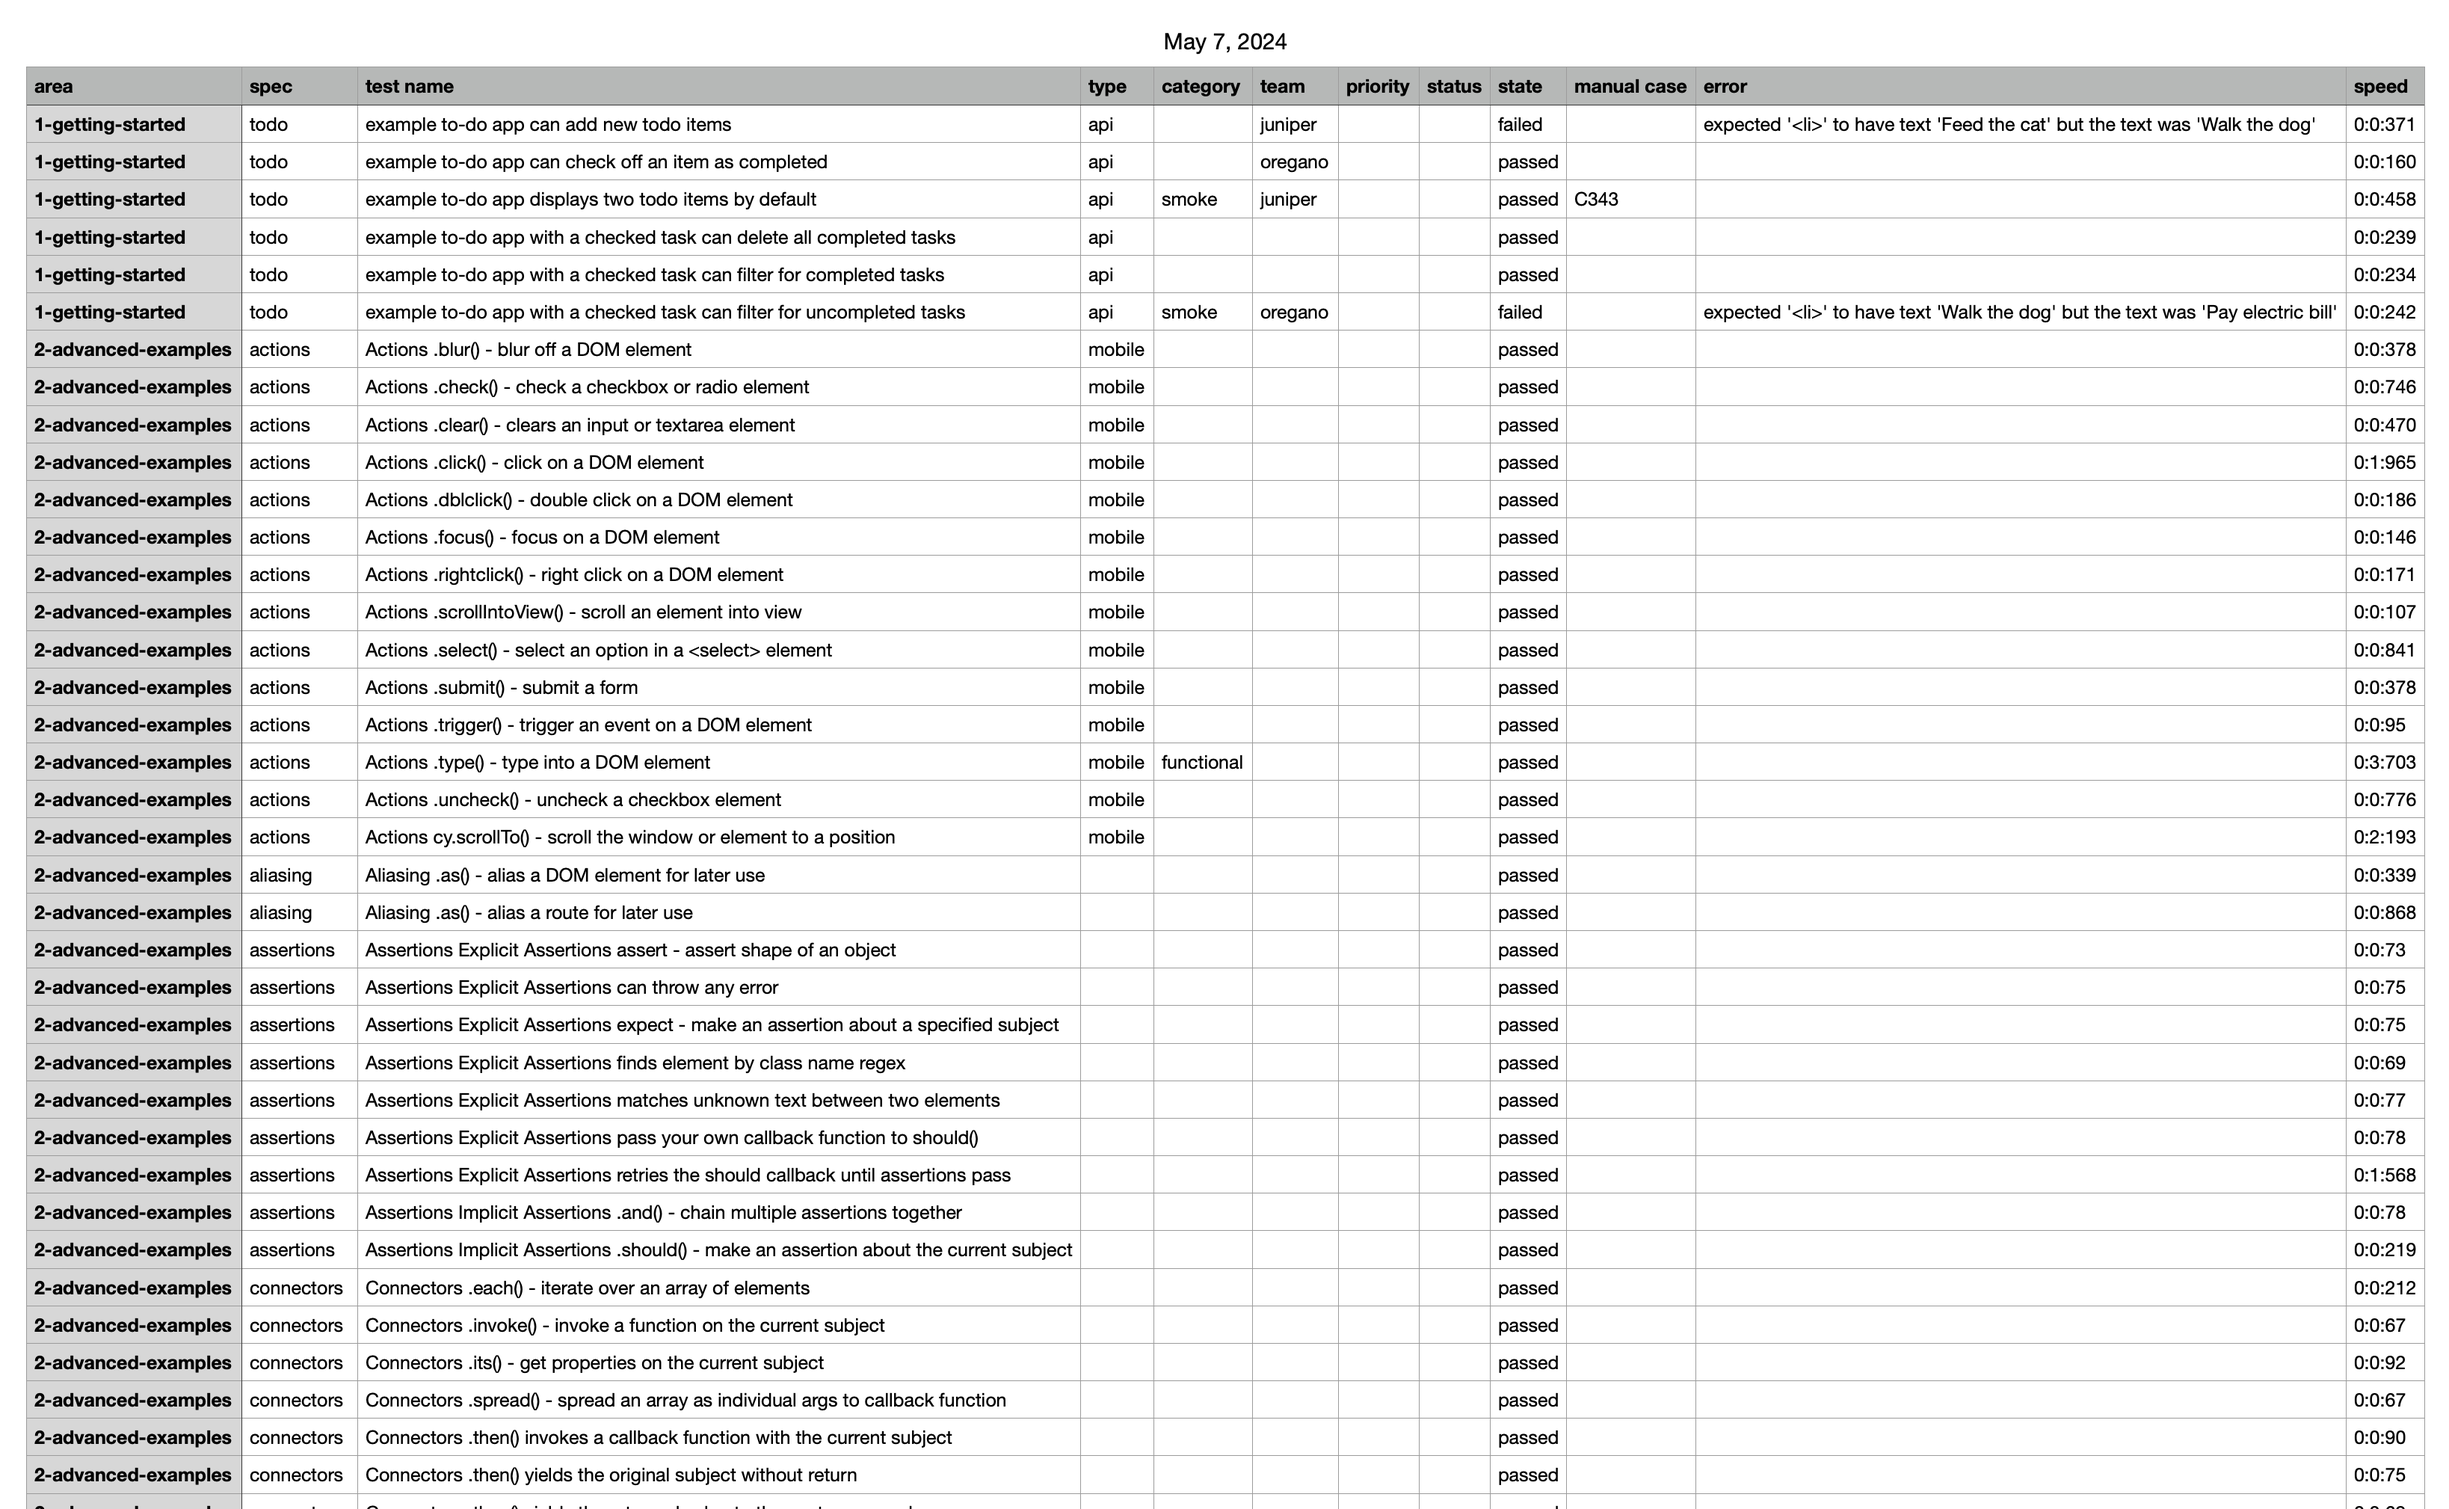
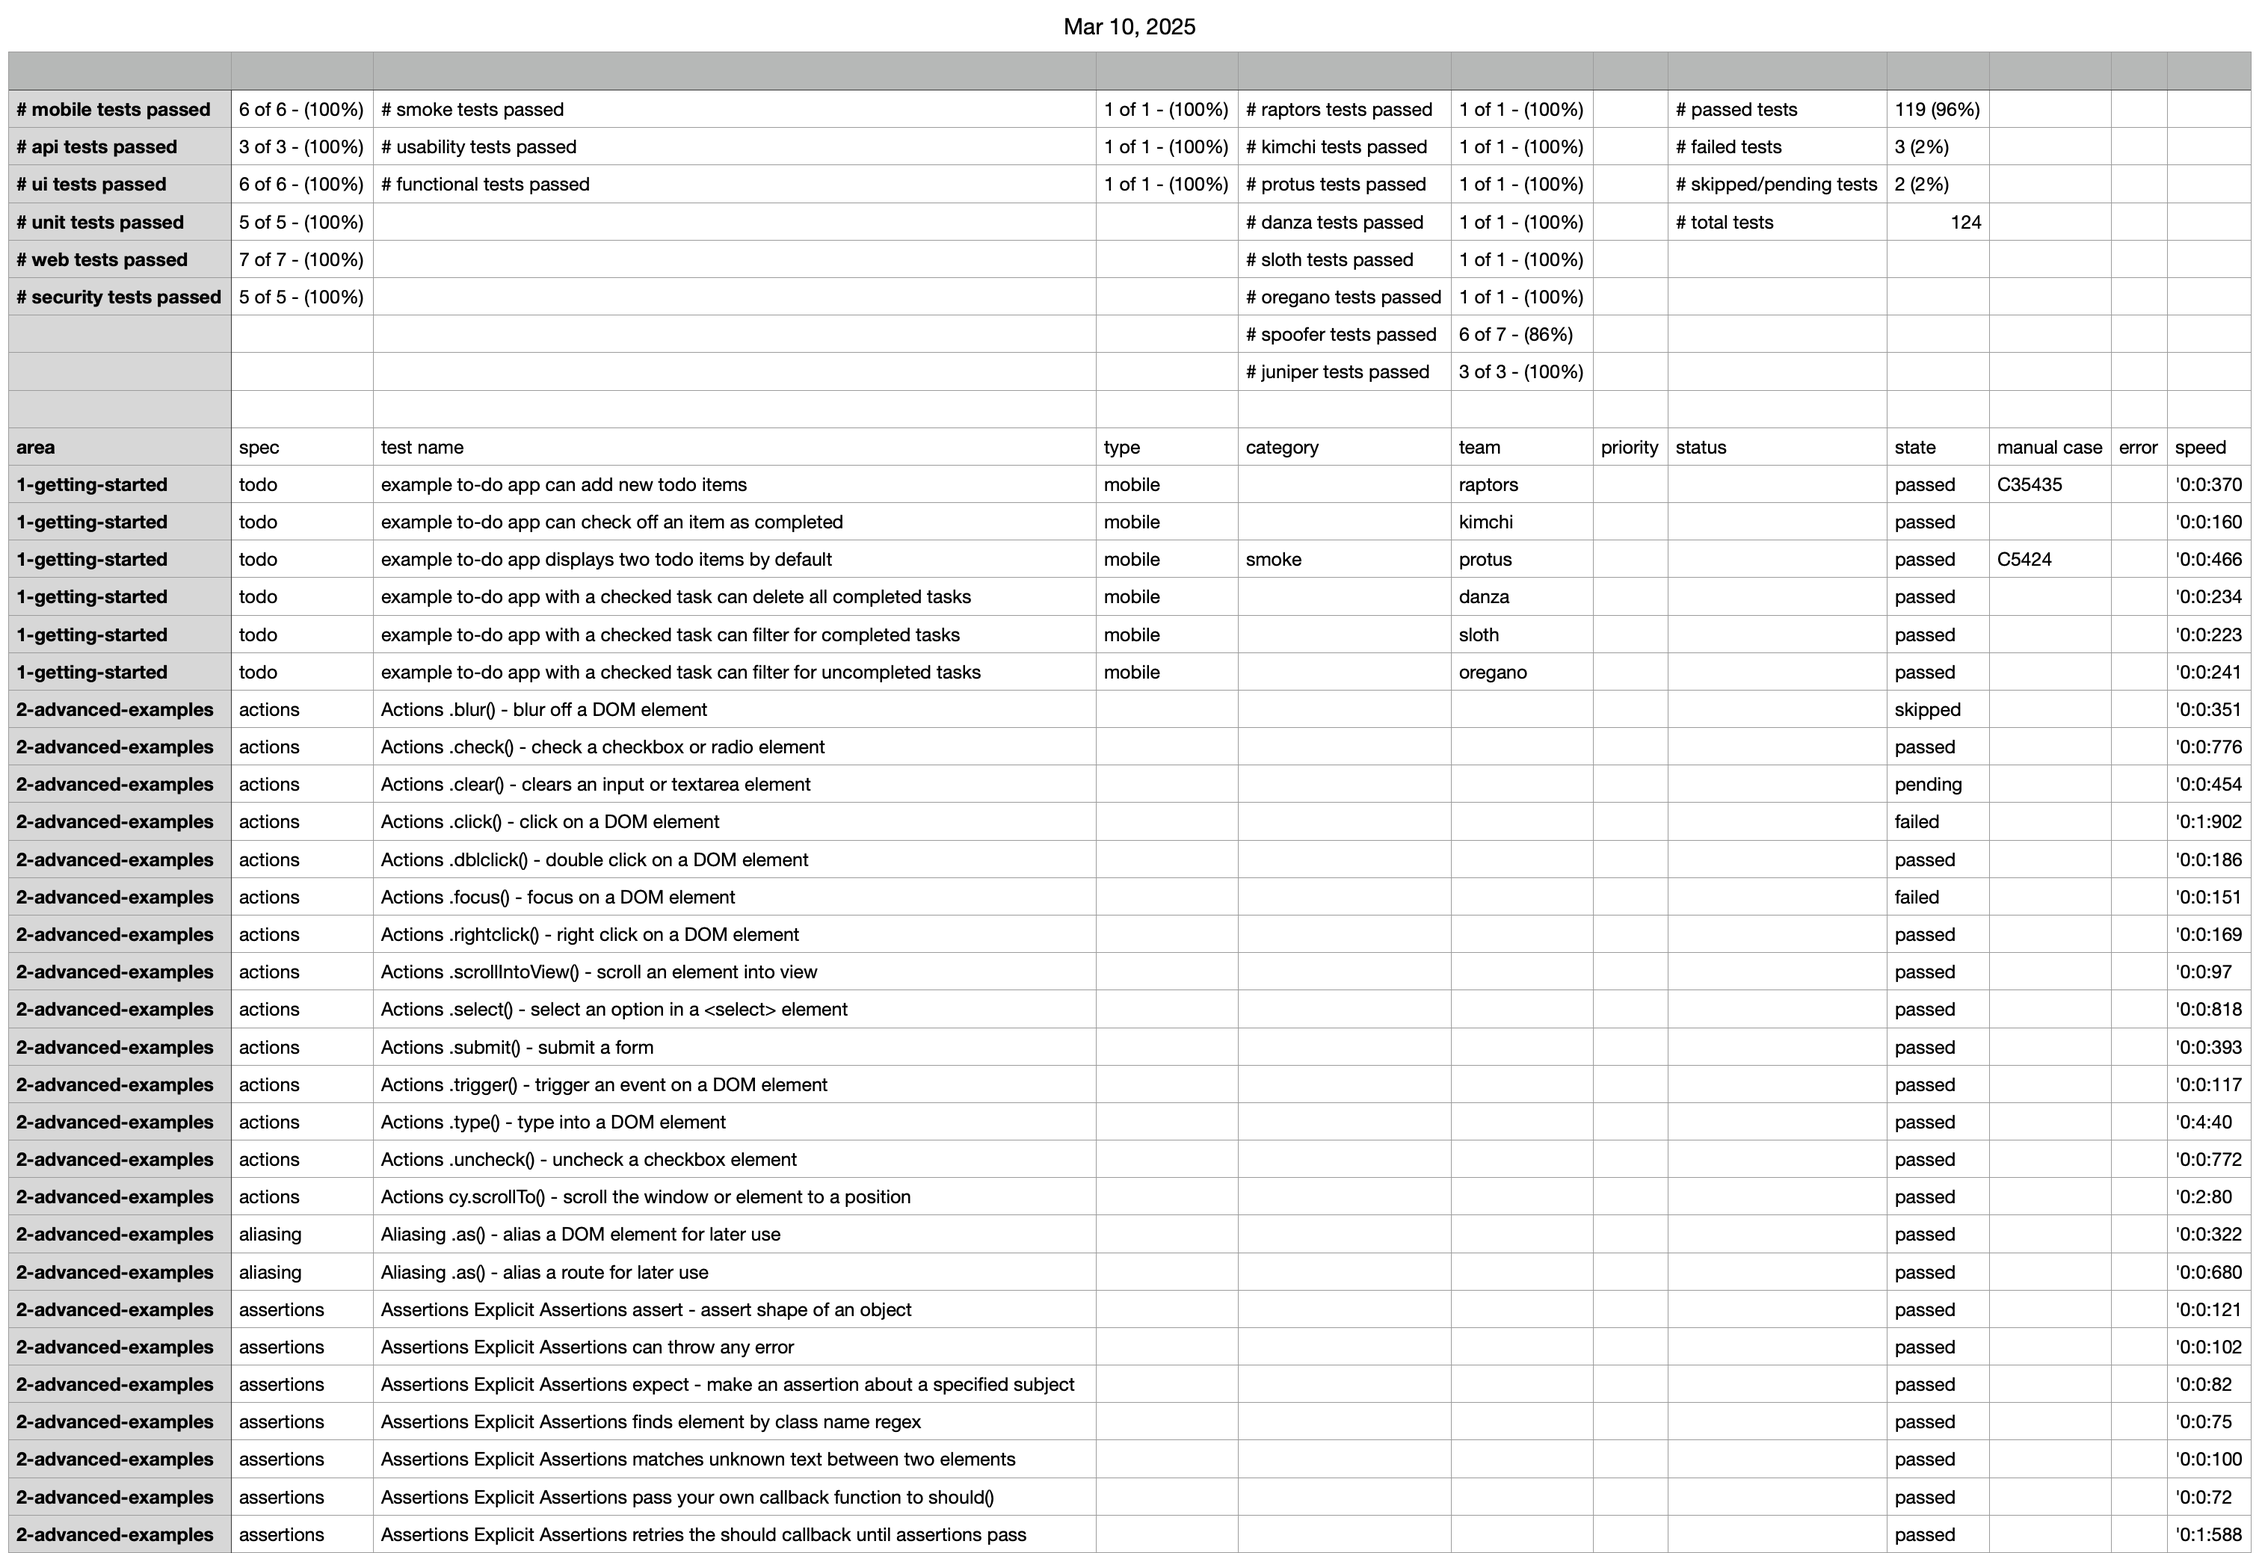
added csv formulas (#108)

diff --git a/src/sharedMethods/csvHandler.js b/src/sharedMethods/csvHandler.js
@@ -10,6 +10,9 @@ import chalk from 'chalk';
  * @returns {string} The CSV string.
  */
 const arrayToCSV = (data) => {
+  if (!Array.isArray(data) || !data.every((row) => Array.isArray(row))) {
+    throw new Error('arrayToCSV expects a 2D array');
+  }
   return data
     .map((row) =>
       row
@@ -50,5 +53,139 @@ export const saveCSV = (reportPayload, duplicate) => {
   }
 
   fs.writeFileSync(filePath, csvData, 'utf8');
-  console.log(`CSV file has been saved successfully to ${filePath}`);
+  console.info(
+    chalk.green(`CSV file has been saved successfully to ${filePath}`)
+  );
+};
+
+/**
+ * Calculates daily summary metrics from test data, dynamically aggregating by unique TYPE, CATEGORY, TEAM values,
+ * and aligns them in multiple rows. Ensures overall metrics are in columns 8-9. Handles empty/blank values efficiently.
+ * @param {Array<Array<string>>} testData - Array of test data arrays (each with 12 elements).
+ * @returns {string[][]} A 2D array representing the calculated header rows for CSV, aligned by columns.
+ */
+export const calculateDailySummaryMetrics = (testData) => {
+  // Initialize counters
+  const counters = {
+    total: testData.length,
+    passed: 0,
+    failed: 0,
+    skippedPending: 0,
+    byType: {},
+    byCategory: {},
+    byTeam: {},
+  };
+
+  // Helper to update counters for a given key and map
+  const updateCounter = (key, map, status) => {
+    if (!key) return; // Skip empty/blank keys
+    if (!map[key]) map[key] = { passed: 0, total: 0 };
+    map[key].total++;
+    if (status.toLowerCase() === 'passed') map[key].passed++;
+  };
+
+  // Process each test entry
+  testData.forEach((row, index) => {
+    const type = row[3] || '';
+    const category = row[4] || '';
+    const team = row[5] || '';
+    const status = row[8] || '';
+
+    // Update overall counters
+    if (status.toLowerCase() === 'passed') counters.passed++;
+    if (status.toLowerCase() === 'failed') counters.failed++;
+    if (status.toLowerCase() !== 'passed' && status.toLowerCase() !== 'failed')
+      counters.skippedPending++;
+
+    // Aggregate by TYPE, CATEGORY, TEAM
+    updateCounter(type, counters.byType, status);
+    updateCounter(category, counters.byCategory, status);
+    updateCounter(team, counters.byTeam, status);
+  });
+
+  // Calculate percentages
+  const calculatePercentage = (passed, total) =>
+    total > 0 ? Math.round((passed / total) * 100) : 0;
+
+  // Helper to generate metric value
+  const generateMetricValue = (passed, total) =>
+    `${passed} of ${total} - (${calculatePercentage(passed, total)}%)`;
+
+  // Get metrics for each category
+  const typeMetrics = Object.entries(counters.byType).map(
+    ([key, { passed, total }]) => [
+      `# ${key} tests passed`,
+      generateMetricValue(passed, total),
+    ]
+  );
+  const categoryMetrics = Object.entries(counters.byCategory).map(
+    ([key, { passed, total }]) => [
+      `# ${key} tests passed`,
+      generateMetricValue(passed, total),
+    ]
+  );
+  const teamMetrics = Object.entries(counters.byTeam).map(
+    ([key, { passed, total }]) => [
+      `# ${key} tests passed`,
+      generateMetricValue(passed, total),
+    ]
+  );
+  const overallMetrics = [
+    `# passed tests`,
+    `${counters.passed} (${calculatePercentage(counters.passed, counters.total)}%)`,
+    `# failed tests`,
+    `${counters.failed} (${calculatePercentage(counters.failed, counters.total)}%)`,
+    `# skipped/pending tests`,
+    `${counters.skippedPending} (${calculatePercentage(counters.skippedPending, counters.total)}%)`,
+    `# total tests`,
+    `${counters.total}`,
+  ];
+
+  // Determine the number of rows (at least 4 for overall metrics)
+  const maxUniqueMetrics = Math.max(
+    typeMetrics.length,
+    categoryMetrics.length,
+    teamMetrics.length
+  );
+  const minRows = 4; // Ensure at least 4 rows for overall metrics
+  const maxRows = Math.max(maxUniqueMetrics, minRows);
+
+  // Build the 2D header with dynamically determined rows
+  const headerRows = [
+    // Initial empty row
+    Array(12).fill(''),
+  ];
+
+  for (let i = 0; i < maxRows; i++) {
+    const row = [];
+    // Columns 1-2: TYPE metric (if available)
+    row.push(typeMetrics[i]?.[0] || '', typeMetrics[i]?.[1] || '');
+    // Columns 3-4: CATEGORY metric (if available)
+    row.push(categoryMetrics[i]?.[0] || '', categoryMetrics[i]?.[1] || '');
+    // Columns 5-6: TEAM metric (if available)
+    row.push(teamMetrics[i]?.[0] || '', teamMetrics[i]?.[1] || '');
+    // Column 7: Placeholder
+    row.push('');
+    // Columns 8-9: Overall metrics (fixed to first 4 rows)
+    if (i === 0) {
+      row.push(overallMetrics[0] || '', overallMetrics[1] || '');
+    } else if (i === 1) {
+      row.push(overallMetrics[2] || '', overallMetrics[3] || '');
+    } else if (i === 2) {
+      row.push(overallMetrics[4] || '', overallMetrics[5] || '');
+    } else if (i === 3) {
+      row.push(overallMetrics[6] || '', overallMetrics[7] || '');
+    } else {
+      row.push('', '');
+    }
+    // Columns 10-12: Placeholders
+    row.push('', '', '');
+
+    headerRows.push(row);
+  }
+
+  // Add final empty row
+  headerRows.push(Array(12).fill(''));
+
+  return headerRows;
 };

diff --git a/src/sharedMethods/dailyReportHandler.js b/src/sharedMethods/dailyReportHandler.js
@@ -19,7 +19,7 @@ import {
   setTextWrappingToClip,
 } from './styles.js';
 import { TEST_DATA } from '../../constants.js';
-import { saveCSV } from './csvHandler.js';
+import { calculateDailySummaryMetrics, saveCSV } from './csvHandler.js';
 import { doesTodaysReportExist } from './dailyReportRequired.js';
 import { transformPlaywrightToFriendlyFormat } from './convertPayloads.js';
 import chalk from 'chalk';
@@ -59,11 +59,35 @@ export const handleDailyReport = async ({
     }
     const fullDailyPayload = await buildDailyPayload(testPayload, playwright);
     if (csv) {
-      const reportPayload = [
+      const summaryHeader = calculateDailySummaryMetrics(
+        fullDailyPayload.bodyPayload
+      );
+      // Ensure the original header is a 1D array
+      const originalHeader = Array.isArray(
         fullDailyPayload.headerPayload[
           fullDailyPayload.headerPayload.length - 1
-        ],
-        ...fullDailyPayload.bodyPayload,
+        ]
+      )
+        ? fullDailyPayload.headerPayload[
+            fullDailyPayload.headerPayload.length - 1
+          ]
+        : [
+            fullDailyPayload.headerPayload[
+              fullDailyPayload.headerPayload.length - 1
+            ],
+          ];
+
+      // Pad the original header to match body row length (12 columns)
+      const bodyRowLength = fullDailyPayload.bodyPayload[0]?.length || 12;
+      const paddedOriginalHeader = [
+        ...originalHeader,
+        ...Array(Math.max(0, bodyRowLength - originalHeader.length)).fill(''),
+      ];
+
+      const reportPayload = [
+        ...summaryHeader, // Multi-row header, each row is 12 columns
+        paddedOriginalHeader, // Column names, padded to 12 columns
+        ...fullDailyPayload.bodyPayload, // Already 2D, each row is 12 columns
       ];
       saveCSV(reportPayload, duplicate);
     } else {

diff --git a/README.md b/README.md
@@ -10,10 +10,10 @@ Our package bridges Cypress and Playwright test runs with Google Sheets or CSV, 
 2. [Quick Start](#quick-start)
    - [Generate Reports in CSV Format](#generate-reports-in-csv-format)
 3. [Samples](#samples)
-   - [Sheets Daily Report](#sheets-daily-report)
-   - [Sheets Weekly Summary](#sheets-weekly-summary)
-   - [Sheets Monthly Summary](#sheets-monthly-summary)
-   - [CSV Daily Report](#csv-daily-report)
+   - [Daily Report in Sheets](#daily-report-in-sheets)
+   - [Weekly Summary in Sheets](#weekly-summary-in-sheets)
+   - [Monthly Summary in Sheets](#monthly-summary-in-sheets)
+   - [Daily Report in CSV](#daily-report-in-csv)
 4. [Sheets Setup Guide](#sheets-setup-guide)
    - [Cypress](#cypress)
    - [Playwright](#playwright)
@@ -87,25 +87,26 @@ Use either command to generate reports using either **NPX** or **NPM scripts** w
 
 ## Samples
 
-### Sheets Daily Report
+### Daily Report in Sheets
 
-The Daily Summary features high-level metrics such as a test quantity and percentage pass rate across multiple categories. Test details are organized into columns that include: the feature area, spec title, test name, test type, test category, team identifiers, test priority, test status, test state, manual case id, error details, and execution speed in format mm:ss:mmm.
+The Daily Summary features high-level metrics such as a test quantity and percentage pass rate across multiple categories. Test details are organized into columns that include: the feature area, spec title, test name, test type, test category, team identifiers, test priority, test status, test state, manual case id, error details, and speed of execution (in mm:ss:mmm format).
 
 This structured format enables teams to quickly assess test outcomes on demand, with an example entry in the feature `area` '1-getting-started', in the 'todo' `spec`, the `test name` example to-do app can add new todo items', classified as `type` 'api', with no `category`, 'billing `team` is responsible, `status` 'passing' with a `speed` of '370 milliseconds'. The team may want to type in a `status` of 'billing team adding test category' with a `priority` of 'low'.
 ![Screenshot of Feature](images/dailyReport.png)
 
-### Sheets Weekly Summary
+### Weekly Summary in Sheets
 
 The Weekly Summary is optional, and it provides a short term summary of the previous weeks `passed`, `failed`, `skipped`, and `total` test results. This summary is a great tool for teams who have weekly meetings to discuss their progress/status/gameplan
 ![Screenshot of Feature](images/weeklySummary.png)
 
-### Sheets Monthly Summary
+### Monthly Summary in Sheets
 
 The Monthly Summary provides a brief overview of historical test execution results, giving long term visibility into `passed`, `failed`, `skipped`, and `total` test results for the previous month, allowing trends to emerge.
 ![Screenshot of Feature](images/monthlySummary.png)
 
-### CSV Daily Report
+### Daily Report in CSV
 
+The Daily Report in CSV format delivers hardcoded snapshot of high-level test metrics, mirroring the formulaic insights provided by the Daily Summary in Sheets: feature area, spec title, test name, test type, test category, team identifiers, priority, status, state, manual case ID, error details, and speed of execution (in mm:ss:mmm format). Unlike the Sheets version, which leverages formulas for dynamic calculations, the CSV report contains hardcoded values, ensuring compatibility with static file formats while maintaining the same depth of analysis.
 ![Screenshot of Feature](images/csvDailyReport.png)
 
 ## Sheets Setup Guide
